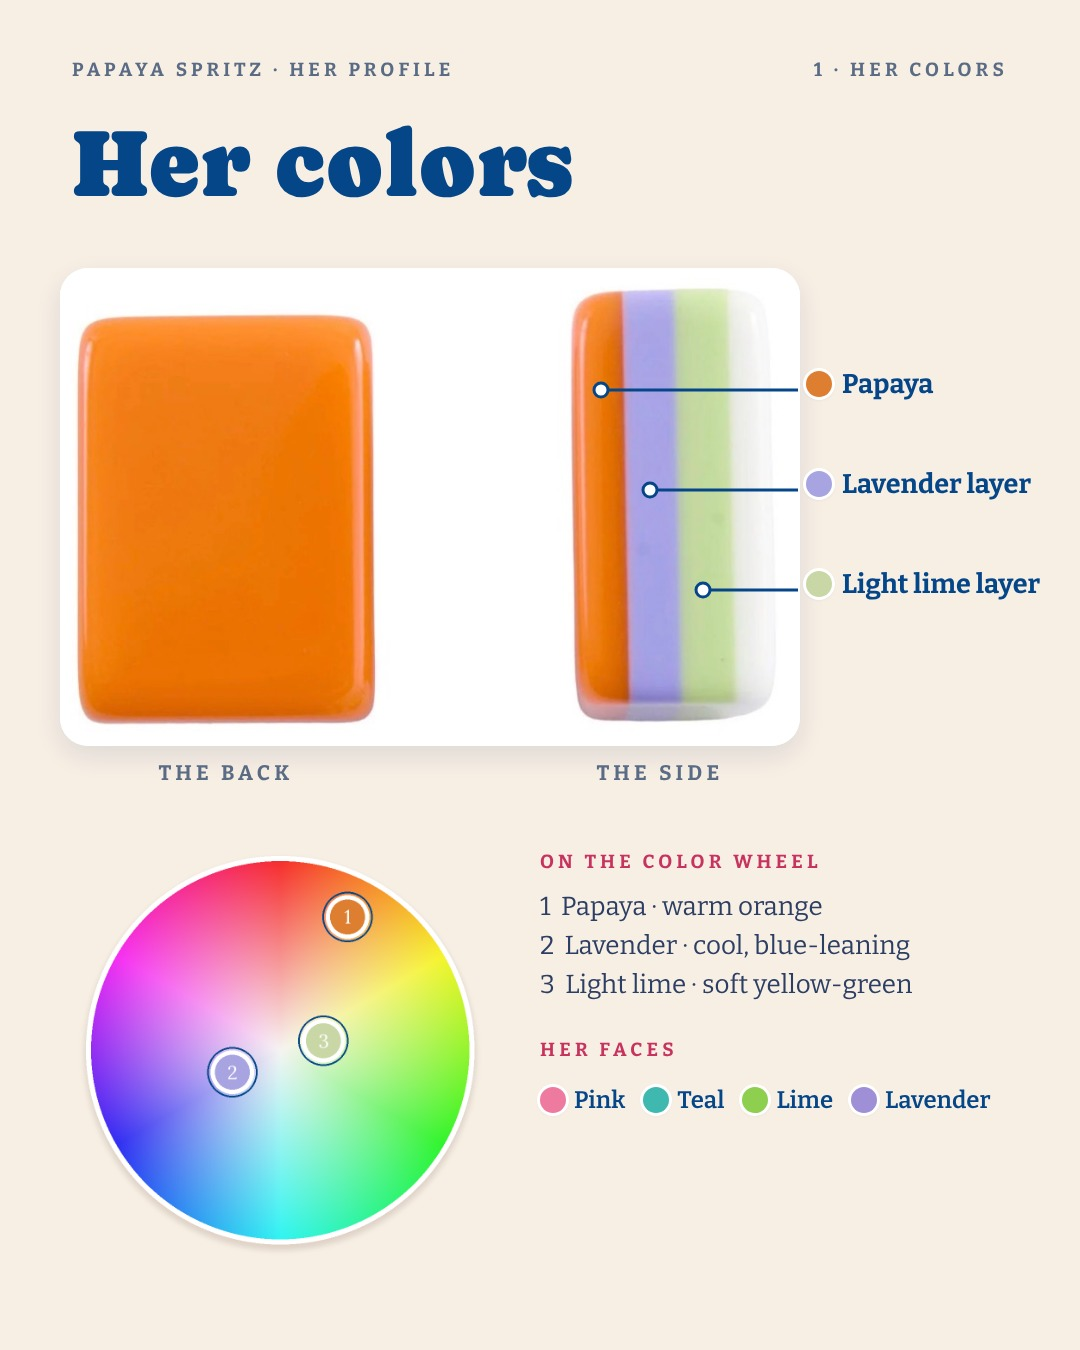
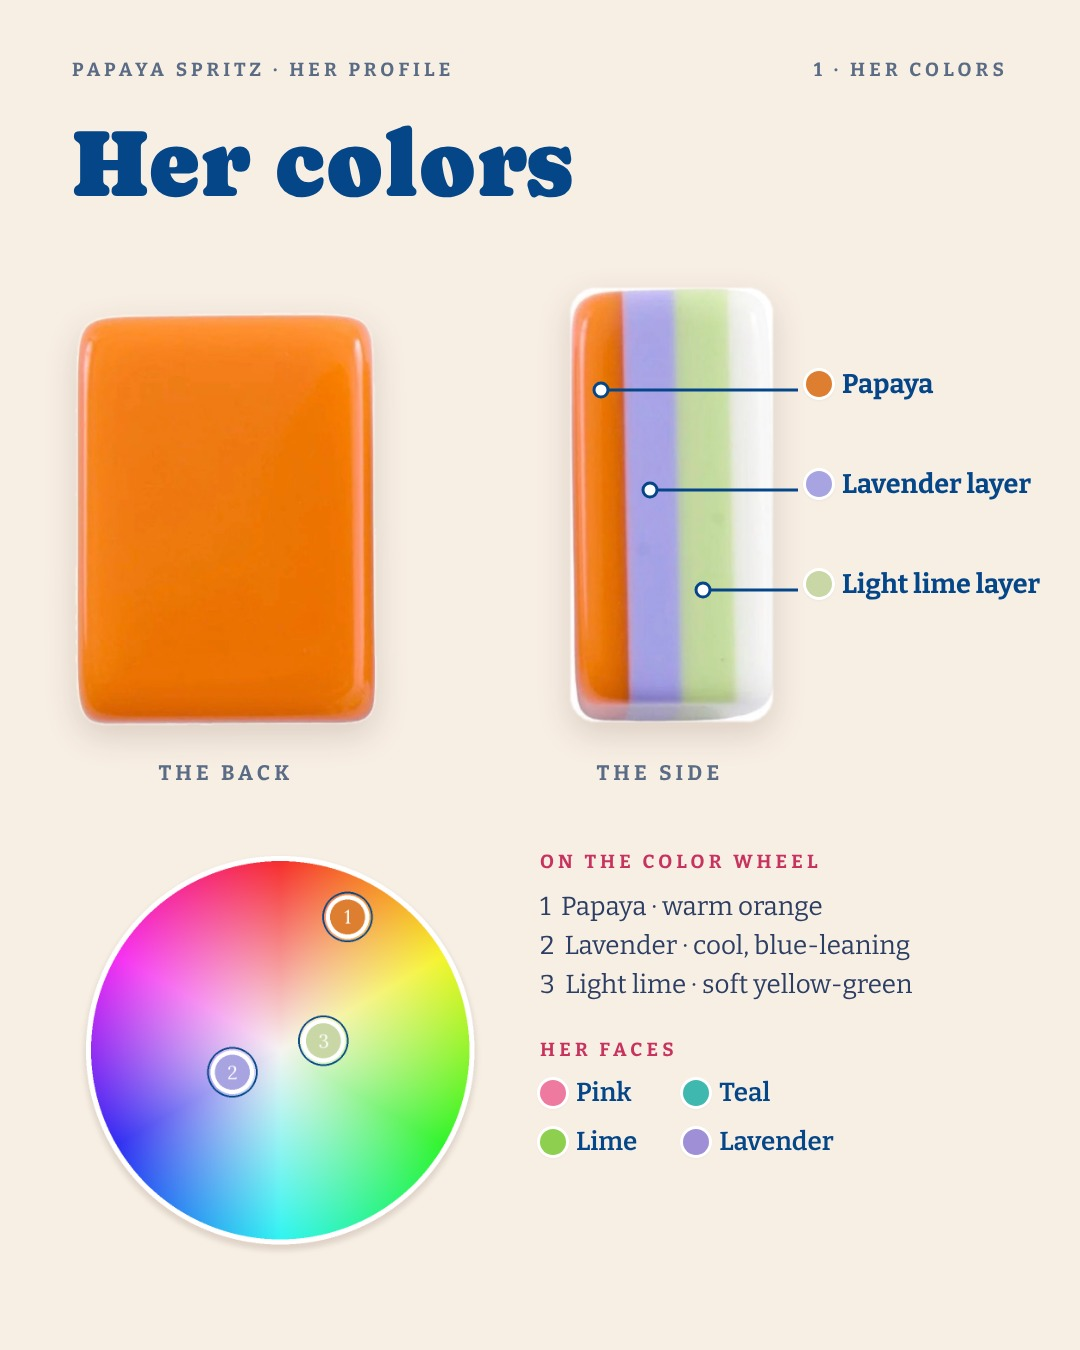
Her colors: tiles cut out on the card (no white box), faces in 2 columns
Claude-Session: https://claude.ai/code/session_014aKoC1ZMdZPjGkZ9kHhnLk

Changed region(s): [[0.0306, 0.1867, 0.7639, 0.56], [0.4889, 0.7778, 0.9167, 0.8711]]

diff --git a/assets/social/papaya-spritz-launch/html/intro-2.html b/assets/social/papaya-spritz-launch/html/intro-2.html
@@ -26,8 +26,7 @@ html,body{width:1080px;height:1350px;overflow:hidden;background:#f7eee4;color:#0
 <div style="position:relative;width:1080px;height:1350px">
 <div style="position:absolute;top:58px;left:72px;right:72px;display:flex;justify-content:space-between"><span class="caps" style="font-size:19px;color:#5a6b85">Papaya Spritz · her profile</span><span class="caps" style="font-size:19px;color:#5a6b85">1 · her colors</span></div>
 <div class="cap" style="position:absolute;top:118px;left:72px;font-size:96px">Her colors</div>
-<div style="position:absolute;left:60px;top:268px;width:740px;height:478px;background:#fff;border-radius:28px;box-shadow:0 10px 26px rgba(5,40,90,.10);overflow:hidden">
- <div style="position:absolute;inset:0;background:url(file:///home/claude/mahjmatchmaker-data/assets/tiles/backs/papaya-spritz-back-and-side-omm.jpg) no-repeat;background-size:858px auto;background-position:-95px -114px"></div></div>
+<div style="position:absolute;left:60px;top:268px;width:740px;height:478px;filter:drop-shadow(0 12px 16px rgba(80,40,20,.16))"><div style="position:absolute;inset:0;background:url(file:///home/claude/mahjmatchmaker-data/assets/tiles/backs/papaya-spritz-back-and-side-omm-cutout.png) no-repeat;background-size:858px auto;background-position:-95px -114px"></div></div>
 <div style="position:absolute;left:806px;top:368px;display:flex;align-items:center;gap:10px;font:700 27px Bit;color:var(--navy);white-space:nowrap"><i style="width:26px;height:26px;border-radius:50%;background:#de7e30;box-shadow:0 0 0 3px #fff,0 1px 4px rgba(5,40,90,.25)"></i>Papaya</div><svg style="position:absolute;left:0;top:0" width="1080" height="1350"><line x1="601" y1="390" x2="798" y2="390" stroke="#054689" stroke-width="3"/><circle cx="601" cy="390" r="7" fill="#fff" stroke="#054689" stroke-width="3"/></svg><div style="position:absolute;left:806px;top:468px;display:flex;align-items:center;gap:10px;font:700 27px Bit;color:var(--navy);white-space:nowrap"><i style="width:26px;height:26px;border-radius:50%;background:#a8a3e1;box-shadow:0 0 0 3px #fff,0 1px 4px rgba(5,40,90,.25)"></i>Lavender layer</div><svg style="position:absolute;left:0;top:0" width="1080" height="1350"><line x1="650" y1="490" x2="798" y2="490" stroke="#054689" stroke-width="3"/><circle cx="650" cy="490" r="7" fill="#fff" stroke="#054689" stroke-width="3"/></svg><div style="position:absolute;left:806px;top:568px;display:flex;align-items:center;gap:10px;font:700 27px Bit;color:var(--navy);white-space:nowrap"><i style="width:26px;height:26px;border-radius:50%;background:#c8d7a5;box-shadow:0 0 0 3px #fff,0 1px 4px rgba(5,40,90,.25)"></i>Light lime layer</div><svg style="position:absolute;left:0;top:0" width="1080" height="1350"><line x1="703" y1="590" x2="798" y2="590" stroke="#054689" stroke-width="3"/><circle cx="703" cy="590" r="7" fill="#fff" stroke="#054689" stroke-width="3"/></svg>
 <div style="position:absolute;left:79px;width:294px;top:760px;text-align:center;font:700 21px Bit;letter-spacing:.2em;text-transform:uppercase;color:#5a6b85">the back</div><div style="position:absolute;left:560px;width:200px;top:760px;text-align:center;font:700 21px Bit;letter-spacing:.2em;text-transform:uppercase;color:#5a6b85">the side</div>
 <img src="file:///home/claude/mahjmatchmaker-data/assets/colorwheels/papaya-spritz-color-wheel-mini.png" style="position:absolute;left:60px;top:830px;width:440px;height:440px">
@@ -35,6 +34,6 @@ html,body{width:1080px;height:1350px;overflow:hidden;background:#f7eee4;color:#0
  <div class="caps" style="font-size:19px;color:var(--pink)">On the color wheel</div>
  <div style="font:400 26px/1.5 Bit;color:#2c3e63;margin-top:14px">1 &nbsp;Papaya · warm orange<br>2 &nbsp;Lavender · cool, blue-leaning<br>3 &nbsp;Light lime · soft yellow-green</div>
  <div class="caps" style="font-size:19px;color:var(--pink);margin-top:34px">Her faces</div>
- <div style="font:600 24px Bit;color:var(--navy);margin-top:14px;line-height:2.1"><span style="display:inline-flex;align-items:center;gap:8px;margin-right:18px"><i style="width:26px;height:26px;border-radius:50%;background:#ef7aa0;box-shadow:0 0 0 3px #fff,0 1px 4px rgba(5,40,90,.2)"></i>Pink</span><span style="display:inline-flex;align-items:center;gap:8px;margin-right:18px"><i style="width:26px;height:26px;border-radius:50%;background:#3fb8b0;box-shadow:0 0 0 3px #fff,0 1px 4px rgba(5,40,90,.2)"></i>Teal</span><span style="display:inline-flex;align-items:center;gap:8px;margin-right:18px"><i style="width:26px;height:26px;border-radius:50%;background:#8fcf4f;box-shadow:0 0 0 3px #fff,0 1px 4px rgba(5,40,90,.2)"></i>Lime</span><span style="display:inline-flex;align-items:center;gap:8px;margin-right:18px"><i style="width:26px;height:26px;border-radius:50%;background:#9f8fd6;box-shadow:0 0 0 3px #fff,0 1px 4px rgba(5,40,90,.2)"></i>Lavender</span></div>
+ <div style="font:600 26px Bit;color:var(--navy);margin-top:16px;display:grid;grid-template-columns:auto auto;gap:18px 46px;justify-content:start"><span style="display:inline-flex;align-items:center;gap:10px"><i style="width:26px;height:26px;border-radius:50%;background:#ef7aa0;box-shadow:0 0 0 3px #fff,0 1px 4px rgba(5,40,90,.2)"></i>Pink</span><span style="display:inline-flex;align-items:center;gap:10px"><i style="width:26px;height:26px;border-radius:50%;background:#3fb8b0;box-shadow:0 0 0 3px #fff,0 1px 4px rgba(5,40,90,.2)"></i>Teal</span><span style="display:inline-flex;align-items:center;gap:10px"><i style="width:26px;height:26px;border-radius:50%;background:#8fcf4f;box-shadow:0 0 0 3px #fff,0 1px 4px rgba(5,40,90,.2)"></i>Lime</span><span style="display:inline-flex;align-items:center;gap:10px"><i style="width:26px;height:26px;border-radius:50%;background:#9f8fd6;box-shadow:0 0 0 3px #fff,0 1px 4px rgba(5,40,90,.2)"></i>Lavender</span></div>
 </div>
 </div></body></html>

diff --git a/scripts/social/tileprofile/intro.py b/scripts/social/tileprofile/intro.py
@@ -33,9 +33,10 @@ end = f"""<!doctype html><html><head><meta charset=utf8><style>{css(1080, 1350, 
 </div></body></html>"""
 # merged "Her colors" slide (Tiffany, Oct 19 night): layer diagram from the brand's back + side photo, small color wheel, face dots
 BACK = P.get('back_photo', 'assets/tiles/backs/' + key + '-back-and-side-omm.jpg')
+BACK_CUT = BACK.rsplit('.', 1)[0] + '-cutout.png'
 bk = {b[0].lower(): b[1] for b in P['her_colors']['backs']}
 cpap, clav, clime = bk.get('papaya', '#de7e30'), bk.get('lavender', '#a8a3e1'), bk.get('light lime', '#c8d7a5')
-faces = ''.join(f'<span style="display:inline-flex;align-items:center;gap:8px;margin-right:18px"><i style="width:26px;height:26px;border-radius:50%;background:{h};box-shadow:0 0 0 3px #fff,0 1px 4px rgba(5,40,90,.2)"></i>{e(n.title())}</span>' for n, h in P['her_colors']['faces'])
+faces = ''.join(f'<span style="display:inline-flex;align-items:center;gap:10px"><i style="width:26px;height:26px;border-radius:50%;background:{h};box-shadow:0 0 0 3px #fff,0 1px 4px rgba(5,40,90,.2)"></i>{e(n.title())}</span>' for n, h in P['her_colors']['faces'])
 WHEEL = url(f'assets/colorwheels/{key}-color-wheel-mini.png')
 def lab(y, txt, col, x2):
     return (f'<div style="position:absolute;left:806px;top:{y-22}px;display:flex;align-items:center;gap:10px;font:700 27px Bit;color:var(--navy);white-space:nowrap">'
@@ -45,8 +46,7 @@ colors = f"""<!doctype html><html><head><meta charset=utf8><style>{css(1080, 135
 <div style="position:relative;width:1080px;height:1350px">
 <div style="position:absolute;top:58px;left:72px;right:72px;display:flex;justify-content:space-between"><span class="caps" style="font-size:19px;color:#5a6b85">{e(P['name'])} · her profile</span><span class="caps" style="font-size:19px;color:#5a6b85">1 · her colors</span></div>
 <div class="cap" style="position:absolute;top:118px;left:72px;font-size:96px">Her colors</div>
-<div style="position:absolute;left:60px;top:268px;width:740px;height:478px;background:#fff;border-radius:28px;box-shadow:0 10px 26px rgba(5,40,90,.10);overflow:hidden">
- <div style="position:absolute;inset:0;background:url({url(BACK)}) no-repeat;background-size:858px auto;background-position:-95px -114px"></div></div>
+<div style="position:absolute;left:60px;top:268px;width:740px;height:478px;filter:drop-shadow(0 12px 16px rgba(80,40,20,.16))"><div style="position:absolute;inset:0;background:url({url(BACK_CUT)}) no-repeat;background-size:858px auto;background-position:-95px -114px"></div></div>
 {lab(390, 'Papaya', cpap, 601)}{lab(490, 'Lavender layer', clav, 650)}{lab(590, 'Light lime layer', clime, 703)}
 <div style="position:absolute;left:79px;width:294px;top:760px;text-align:center;font:700 21px Bit;letter-spacing:.2em;text-transform:uppercase;color:#5a6b85">the back</div><div style="position:absolute;left:560px;width:200px;top:760px;text-align:center;font:700 21px Bit;letter-spacing:.2em;text-transform:uppercase;color:#5a6b85">the side</div>
 <img src="{WHEEL}" style="position:absolute;left:60px;top:830px;width:440px;height:440px">
@@ -54,7 +54,7 @@ colors = f"""<!doctype html><html><head><meta charset=utf8><style>{css(1080, 135
  <div class="caps" style="font-size:19px;color:var(--pink)">On the color wheel</div>
  <div style="font:400 26px/1.5 Bit;color:#2c3e63;margin-top:14px">1 &nbsp;Papaya · warm orange<br>2 &nbsp;Lavender · cool, blue-leaning<br>3 &nbsp;Light lime · soft yellow-green</div>
  <div class="caps" style="font-size:19px;color:var(--pink);margin-top:34px">Her faces</div>
- <div style="font:600 24px Bit;color:var(--navy);margin-top:14px;line-height:2.1">{faces}</div>
+ <div style="font:600 26px Bit;color:var(--navy);margin-top:16px;display:grid;grid-template-columns:auto auto;gap:18px 46px;justify-content:start">{faces}</div>
 </div>
 </div></body></html>"""
 pages = {2: colors, 3: None, 4: nodots(open(f'{H}/s3.html').read()), 5: nodots(open(f'{H}/s4.html').read()), 6: end}
